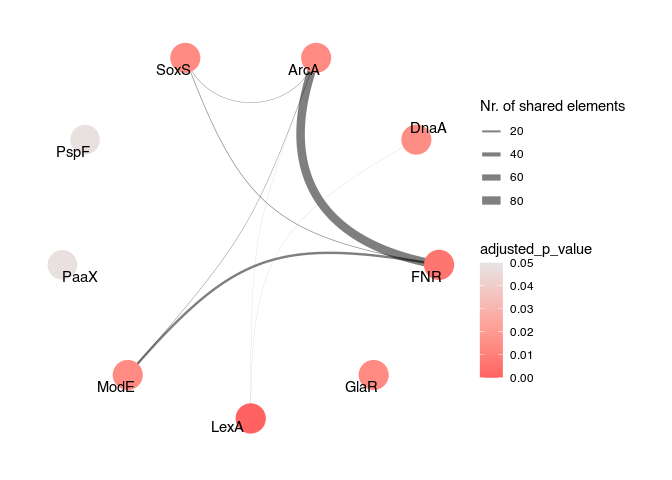
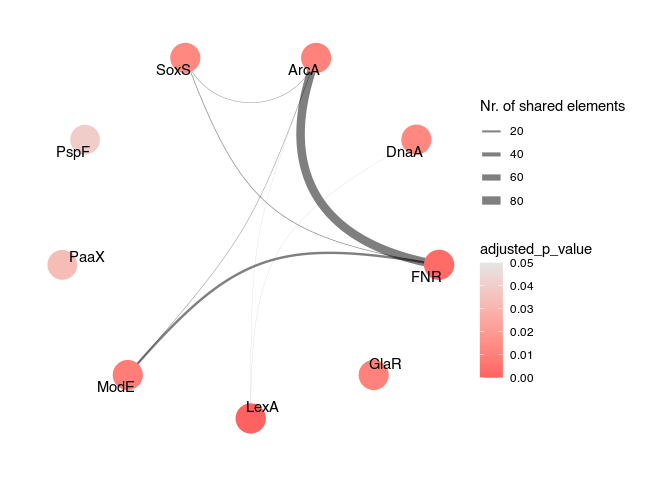
NEWS added, inst devtools to the README

diff --git a/README.md b/README.md
@@ -24,9 +24,10 @@ pulls](https://img.shields.io/github/issues-pr/ELTEbioinformatics/mulea)](https:
   - [Gene Set Enrichment Analysis
     (GSEA)](#gene-set-enrichment-analysis-gsea)
 - [Session Info](#session-info)
+- [References](#references)
 - [How to Cite the `mulea` Package?](#how-to-cite-the-mulea-package)
 - [Code of Conduct](#code-of-conduct)
-- [References](#references)
+
 
 # Introduction
 
@@ -70,8 +71,14 @@ a dependency for `mulea` from Bioconductor. Then, you can install
 # installing the BiocManager package if needed
 if (!require("BiocManager", quietly = TRUE))
     install.packages("BiocManager")
+
 # installing the fgsea package from Bioconductor
 BiocManager::install("fgsea")
+
+# installing the devtools package if needed
+if (!require("devtools", quietly = TRUE))
+    install.packages("devtools")
+
 # installing the mulea package from GitHub
 devtools::install_github("https://github.com/ELTEbioinformatics/mulea")
 ```
@@ -295,14 +302,6 @@ tf_gmt_filtered <- filter_ontology(gmt = tf_gmt,
                                    max_nr_of_elements = 400)
 ```
 
-It is possible to write the filtered ontology as a GMT file using the
-`write_gmt` function.
-
-``` r
-write_gmt(gmt = tf_gmt_filtered, 
-          file = "Transcription_factor_RegulonDB_Escherichia_coli_GeneSymbol_filtered.gmt")
-```
-
 **Results:**
 
 We can now determine the number of transcription factors remaining in
@@ -313,11 +312,12 @@ nrow(tf_gmt_filtered)
 #> [1] 154
 ```
 
-We can save the filtered *GMT* object to a file:
+It is possible to write the filtered ontology as a GMT file using the
+`write_gmt` function.
 
 ``` r
 write_gmt(gmt = tf_gmt_filtered, 
-          file = "Transcription_factor_RegulonDB_Escherichia_coli_GeneSymbol_filtered.gmt")
+          file = "Filtered.gmt")
 ```
 
 ### Converting a List to an Ontology Object
@@ -474,14 +474,14 @@ ora_results %>%
 |:------------|:--------------|-------------------------------:|-----------------------------------:|----------:|----------:|
 | FNR         | FNR           |                             26 |                                259 | 0.0000003 | 0.0000000 |
 | LexA        | LexA          |                             14 |                                 53 | 0.0000000 | 0.0000000 |
-| SoxS        | SoxS          |                              7 |                                 37 | 0.0001615 | 0.0030000 |
-| DnaA        | DnaA          |                              4 |                                 13 | 0.0006281 | 0.0046833 |
-| Rob         | Rob           |                              5 |                                 21 | 0.0004717 | 0.0047400 |
+| SoxS        | SoxS          |                              7 |                                 37 | 0.0001615 | 0.0028667 |
+| DnaA        | DnaA          |                              4 |                                 13 | 0.0006281 | 0.0048167 |
+| Rob         | Rob           |                              5 |                                 21 | 0.0004717 | 0.0050200 |
 | FadR        | FadR          |                              5 |                                 20 | 0.0003692 | 0.0051000 |
-| NsrR        | NsrR          |                              8 |                                 64 | 0.0010478 | 0.0069143 |
-| ArcA        | ArcA          |                             12 |                                148 | 0.0032001 | 0.0202000 |
-| IHF         | IHF           |                             14 |                                205 | 0.0070758 | 0.0466000 |
-| MarA        | MarA          |                              5 |                                 37 | 0.0066068 | 0.0492778 |
+| NsrR        | NsrR          |                              8 |                                 64 | 0.0010478 | 0.0067000 |
+| ArcA        | ArcA          |                             12 |                                148 | 0.0032001 | 0.0196375 |
+| IHF         | IHF           |                             14 |                                205 | 0.0070758 | 0.0443800 |
+| MarA        | MarA          |                              5 |                                 37 | 0.0066068 | 0.0468111 |
 
 ### Visualizing the ORA Result
 
@@ -621,7 +621,8 @@ This data can be formatted in two ways:
 geo2r_result_tab_filtered <- geo2r_result_tab %>% 
   # grouping by Gene.symbol to be able to filter
   group_by(Gene.symbol) %>%
-  # keeping the first row for each Gene.symbol from rows with the same Gene.symbol
+  # keeping the first row for each Gene.symbol from rows with the same 
+  # Gene.symbol
   filter(row_number()==1) %>% 
   # ungrouping
   ungroup() %>% 
@@ -692,15 +693,15 @@ gsea_results %>%
 
 | ontology_id | ontology_name | nr_common_with_tested_elements |   p_value | adjusted_p_value |
 |:------------|:--------------|-------------------------------:|----------:|-----------------:|
-| LexA        | LexA          |                             53 | 0.0000000 |        0.0000026 |
-| FNR         | FNR           |                            259 | 0.0000818 |        0.0062565 |
-| ArcA        | ArcA          |                            148 | 0.0005358 |        0.0136628 |
-| GlaR        | GlaR          |                              3 | 0.0004306 |        0.0136628 |
-| ModE        | ModE          |                             45 | 0.0002757 |        0.0136628 |
-| SoxS        | SoxS          |                             37 | 0.0004717 |        0.0136628 |
-| DnaA        | DnaA          |                             13 | 0.0006732 |        0.0147137 |
-| PaaX        | PaaX          |                             14 | 0.0025344 |        0.0481162 |
-| PspF        | PspF          |                              7 | 0.0028304 |        0.0481162 |
+| LexA        | LexA          |                             53 | 0.0000000 |        0.0000018 |
+| FNR         | FNR           |                            259 | 0.0000373 |        0.0028553 |
+| ModE        | ModE          |                             45 | 0.0001848 |        0.0094239 |
+| ArcA        | ArcA          |                            148 | 0.0003577 |        0.0109462 |
+| GlaR        | GlaR          |                              3 | 0.0003577 |        0.0109462 |
+| DnaA        | DnaA          |                             13 | 0.0005907 |        0.0129121 |
+| SoxS        | SoxS          |                             37 | 0.0005450 |        0.0129121 |
+| PaaX        | PaaX          |                             14 | 0.0017396 |        0.0332693 |
+| PspF        | PspF          |                              7 | 0.0023494 |        0.0399397 |
 
 ### Visualizing the GSEA Results
 
@@ -832,29 +833,30 @@ sessionInfo()
 #>  [9] tibble_3.2.1    ggplot2_3.5.0   tidyverse_2.0.0
 #> 
 #> loaded via a namespace (and not attached):
-#>  [1] fastmatch_1.1-4     gtable_0.3.4        xfun_0.41          
+#>  [1] fastmatch_1.1-4     gtable_0.3.4        xfun_0.42          
 #>  [4] ggrepel_0.9.5       lattice_0.22-5      tzdb_0.4.0         
 #>  [7] vctrs_0.6.5         tools_4.3.2         generics_0.1.3     
 #> [10] parallel_4.3.2      fansi_1.0.6         highr_0.10         
 #> [13] pkgconfig_2.0.3     Matrix_1.6-5        data.table_1.15.0  
 #> [16] lifecycle_1.0.4     compiler_4.3.2      farver_2.1.1       
-#> [19] munsell_0.5.0       ggforce_0.4.2       fgsea_1.28.0       
-#> [22] graphlayouts_1.1.0  codetools_0.2-19    htmltools_0.5.7    
-#> [25] yaml_2.3.8          pillar_1.9.0        crayon_1.5.2       
-#> [28] MASS_7.3-60.0.1     BiocParallel_1.36.0 viridis_0.6.5      
-#> [31] tidyselect_1.2.0    digest_0.6.34       stringi_1.8.3      
-#> [34] labeling_0.4.3      cowplot_1.1.3       polyclip_1.10-6    
-#> [37] fastmap_1.1.1       grid_4.3.2          colorspace_2.1-0   
-#> [40] cli_3.6.2           magrittr_2.0.3      ggraph_2.1.0       
-#> [43] tidygraph_1.3.1     utf8_1.2.4          withr_3.0.0        
-#> [46] scales_1.3.0        bit64_4.0.5         timechange_0.3.0   
-#> [49] rmarkdown_2.25      igraph_2.0.2        bit_4.0.5          
-#> [52] gridExtra_2.3       hms_1.1.3           evaluate_0.23      
-#> [55] knitr_1.45          viridisLite_0.4.2   rlang_1.1.3        
-#> [58] Rcpp_1.0.12         glue_1.7.0          tweenr_2.0.2       
-#> [61] rstudioapi_0.15.0   vroom_1.6.5         R6_2.5.1           
-#> [64] plyr_1.8.9
+#> [19] tictoc_1.2          munsell_0.5.0       ggforce_0.4.2      
+#> [22] fgsea_1.28.0        graphlayouts_1.1.0  codetools_0.2-19   
+#> [25] htmltools_0.5.7     yaml_2.3.8          pillar_1.9.0       
+#> [28] crayon_1.5.2        MASS_7.3-60.0.1     BiocParallel_1.36.0
+#> [31] viridis_0.6.5       tidyselect_1.2.0    digest_0.6.34      
+#> [34] stringi_1.8.3       labeling_0.4.3      cowplot_1.1.3      
+#> [37] polyclip_1.10-6     fastmap_1.1.1       grid_4.3.2         
+#> [40] colorspace_2.1-0    cli_3.6.2           magrittr_2.0.3     
+#> [43] ggraph_2.1.0        tidygraph_1.3.1     utf8_1.2.4         
+#> [46] withr_3.0.0         scales_1.3.0        bit64_4.0.5        
+#> [49] timechange_0.3.0    rmarkdown_2.25      igraph_2.0.2       
+#> [52] bit_4.0.5           gridExtra_2.3       hms_1.1.3          
+#> [55] evaluate_0.23       knitr_1.45          viridisLite_0.4.2  
+#> [58] rlang_1.1.3         Rcpp_1.0.12         glue_1.7.0         
+#> [61] tweenr_2.0.2        rstudioapi_0.15.0   vroom_1.6.5        
+#> [64] R6_2.5.1            plyr_1.8.9
 ```
+
 # References
 
 <div id="refs" class="references csl-bib-body hanging-indent">
